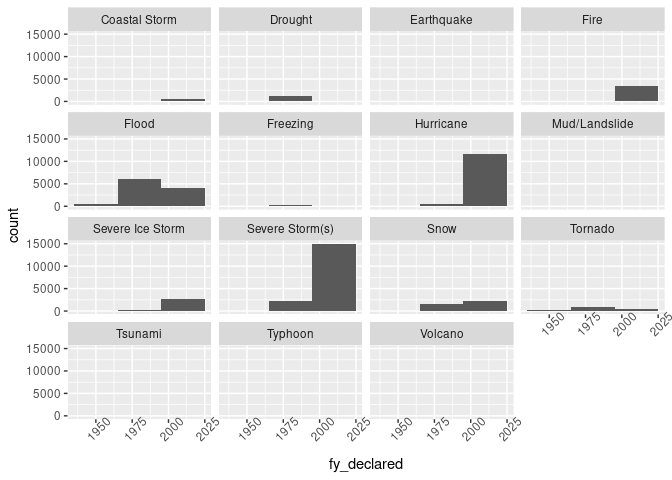
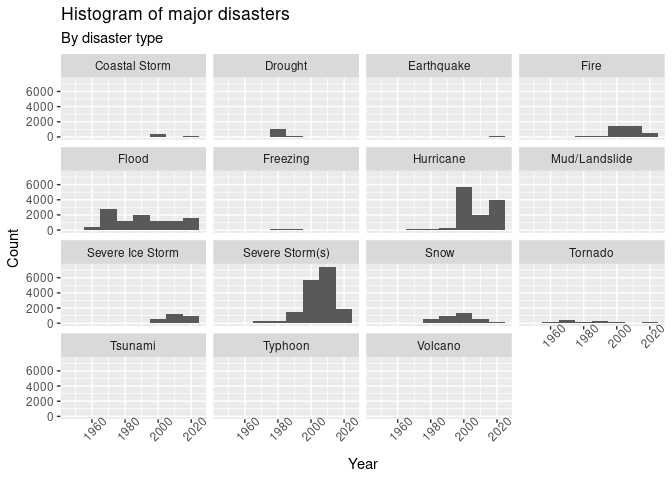
Add graph for wildfires

Changed region(s): [[0.0, 0.0, 1.0, 0.875], [0.125, 0.875, 0.7812, 1.0], [0.8125, 0.625, 1.0, 0.7188]]

diff --git a/proposal/proposal.md b/proposal/proposal.md
@@ -229,9 +229,32 @@ disaster_data %>%
   filter(incident_type %in% c("Coastal Storm", "Drought", "Earthquake", "Fire", "Flood","Freezing", "Hurricane", "Mud/Landslide", "Severe Ice Storm","Severe Storm(s)", "Snow", "Tornado", "Tsunami", "Typhoon",
 "Volcano")) %>%
   ggplot(mapping = aes(x = fy_declared)) +
-    geom_histogram(binwidth = 30) + 
+    geom_histogram(binwidth = 10) + 
     facet_wrap( ~ incident_type) +
-    theme(axis.text.x = element_text(angle = 45))
+    theme(axis.text.x = element_text(angle = 45)) + 
+    labs(title = "Histogram of major disasters",
+         subtitle = "By disaster type",
+         x = "Year",
+         y = "Count")
 ```
 
 ![](proposal_files/figure-gfm/disaster-hist-1.png)<!-- -->
+
+``` r
+wildfires %>%
+  filter(fire_size_class == c("D", "E", "F", "G")) %>%
+  ggplot(mapping = aes(x = disc_pre_year, 
+                       y = fire_size)) + 
+    geom_smooth() + 
+    labs(title = "Large wildfires by year",
+         subtitle = "Wildfires of class D, E, F, and G, size of 100 acres or more",
+         x = "Year of wildfire",
+         y = "Wildfire size (acres)")
+```
+
+    ## Warning in fire_size_class == c("D", "E", "F", "G"): longer object length is not
+    ## a multiple of shorter object length
+
+    ## `geom_smooth()` using method = 'gam' and formula 'y ~ s(x, bs = "cs")'
+
+![](proposal_files/figure-gfm/large-wildfires-1.png)<!-- -->
